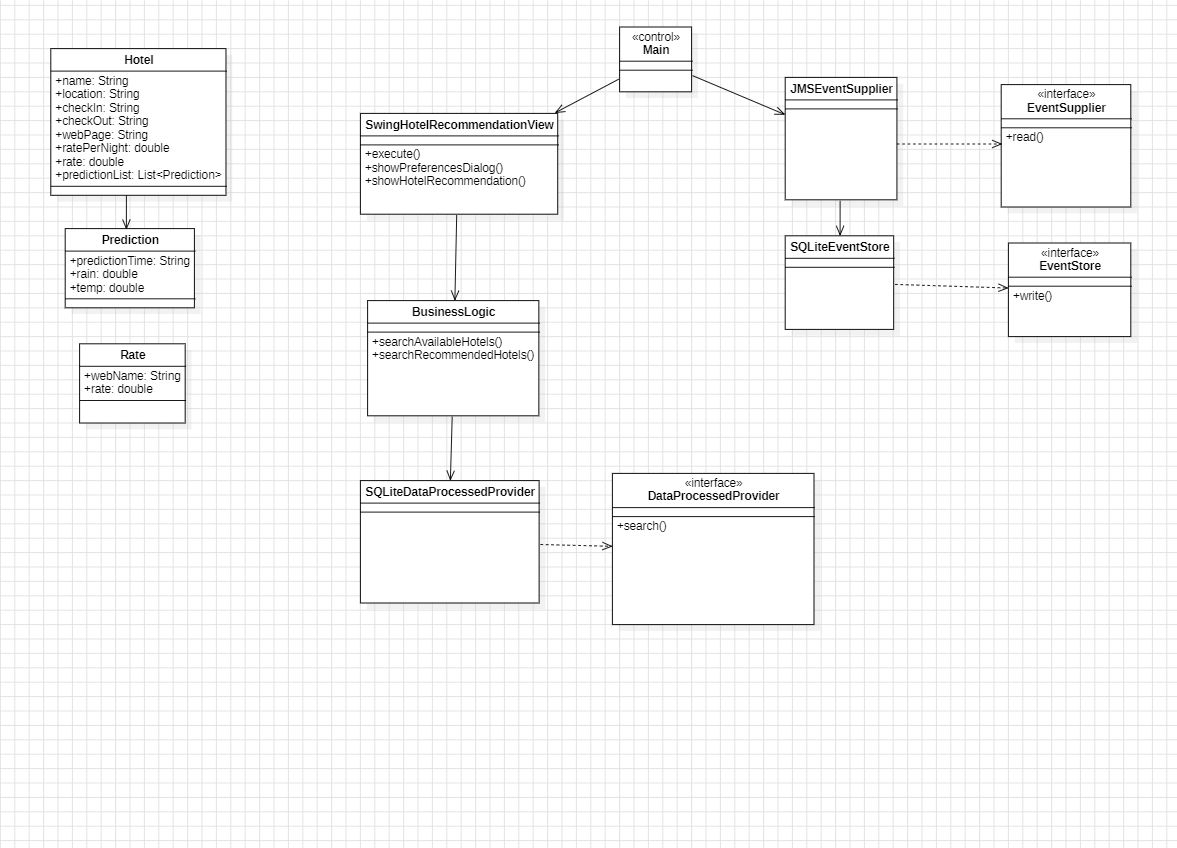
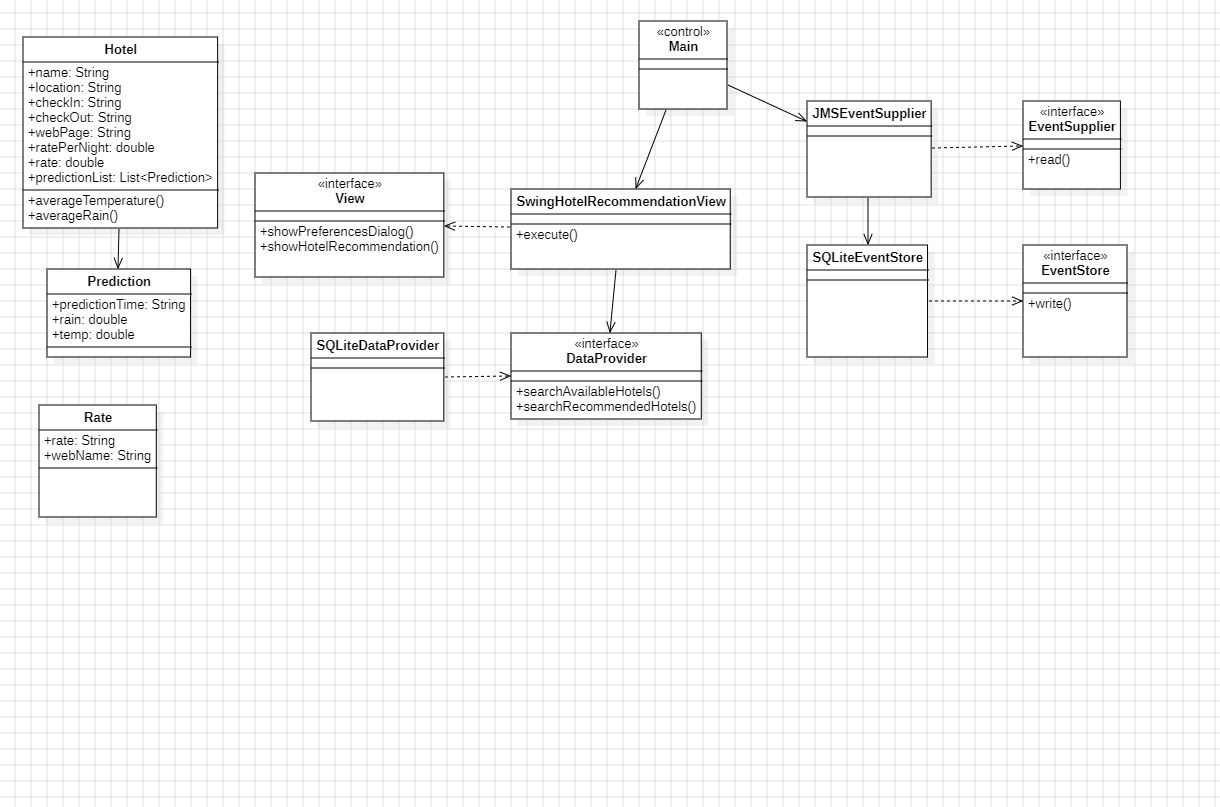
README updated

diff --git a/README.md b/README.md
@@ -141,8 +141,8 @@
 - #### Entry point of the module.
 - #### Executes the methods that read the events from the broker and that execute the GUI of the application.
 
-### BusinessLogic.java:
-- #### This class encapsulates business logic related to hotel search and recommendation based on date ranges and temperature preferences. It relies on a SQLiteDataProcessedProvider for accessing hotel data from a SQLite database. It is in turn used by the view so that it can provide the data.
+### View.java:
+- #### Defines the interface for the view
 
 ### JMSEventSupplier.java:
 - #### Implements the EventSupplier interface.
@@ -152,7 +152,7 @@
 - #### Implements the EventStore interface.
 - #### Writes the selected data from the events it receives to a SQLite database.
 
-### SQLiteDataProcessedProvider.java:
+### SQLiteDataProvider.java:
 - #### Implements the DataProcessedProvider  interface.
 - #### The class encapsulates the logic for retrieving hotel and weather information from the SQLite database, creating corresponding Java objects, and processing the data for further use in the application.
 
@@ -162,7 +162,7 @@
 ### EventSupplier.java:
 - #### Defines the interface for obtaining events.
 
-### DataProcessedProvider.java:
+### DataProvider.java:
 - #### Defines the interface for retrieving hotel and weather information.
 
 ### Hotel.java:
